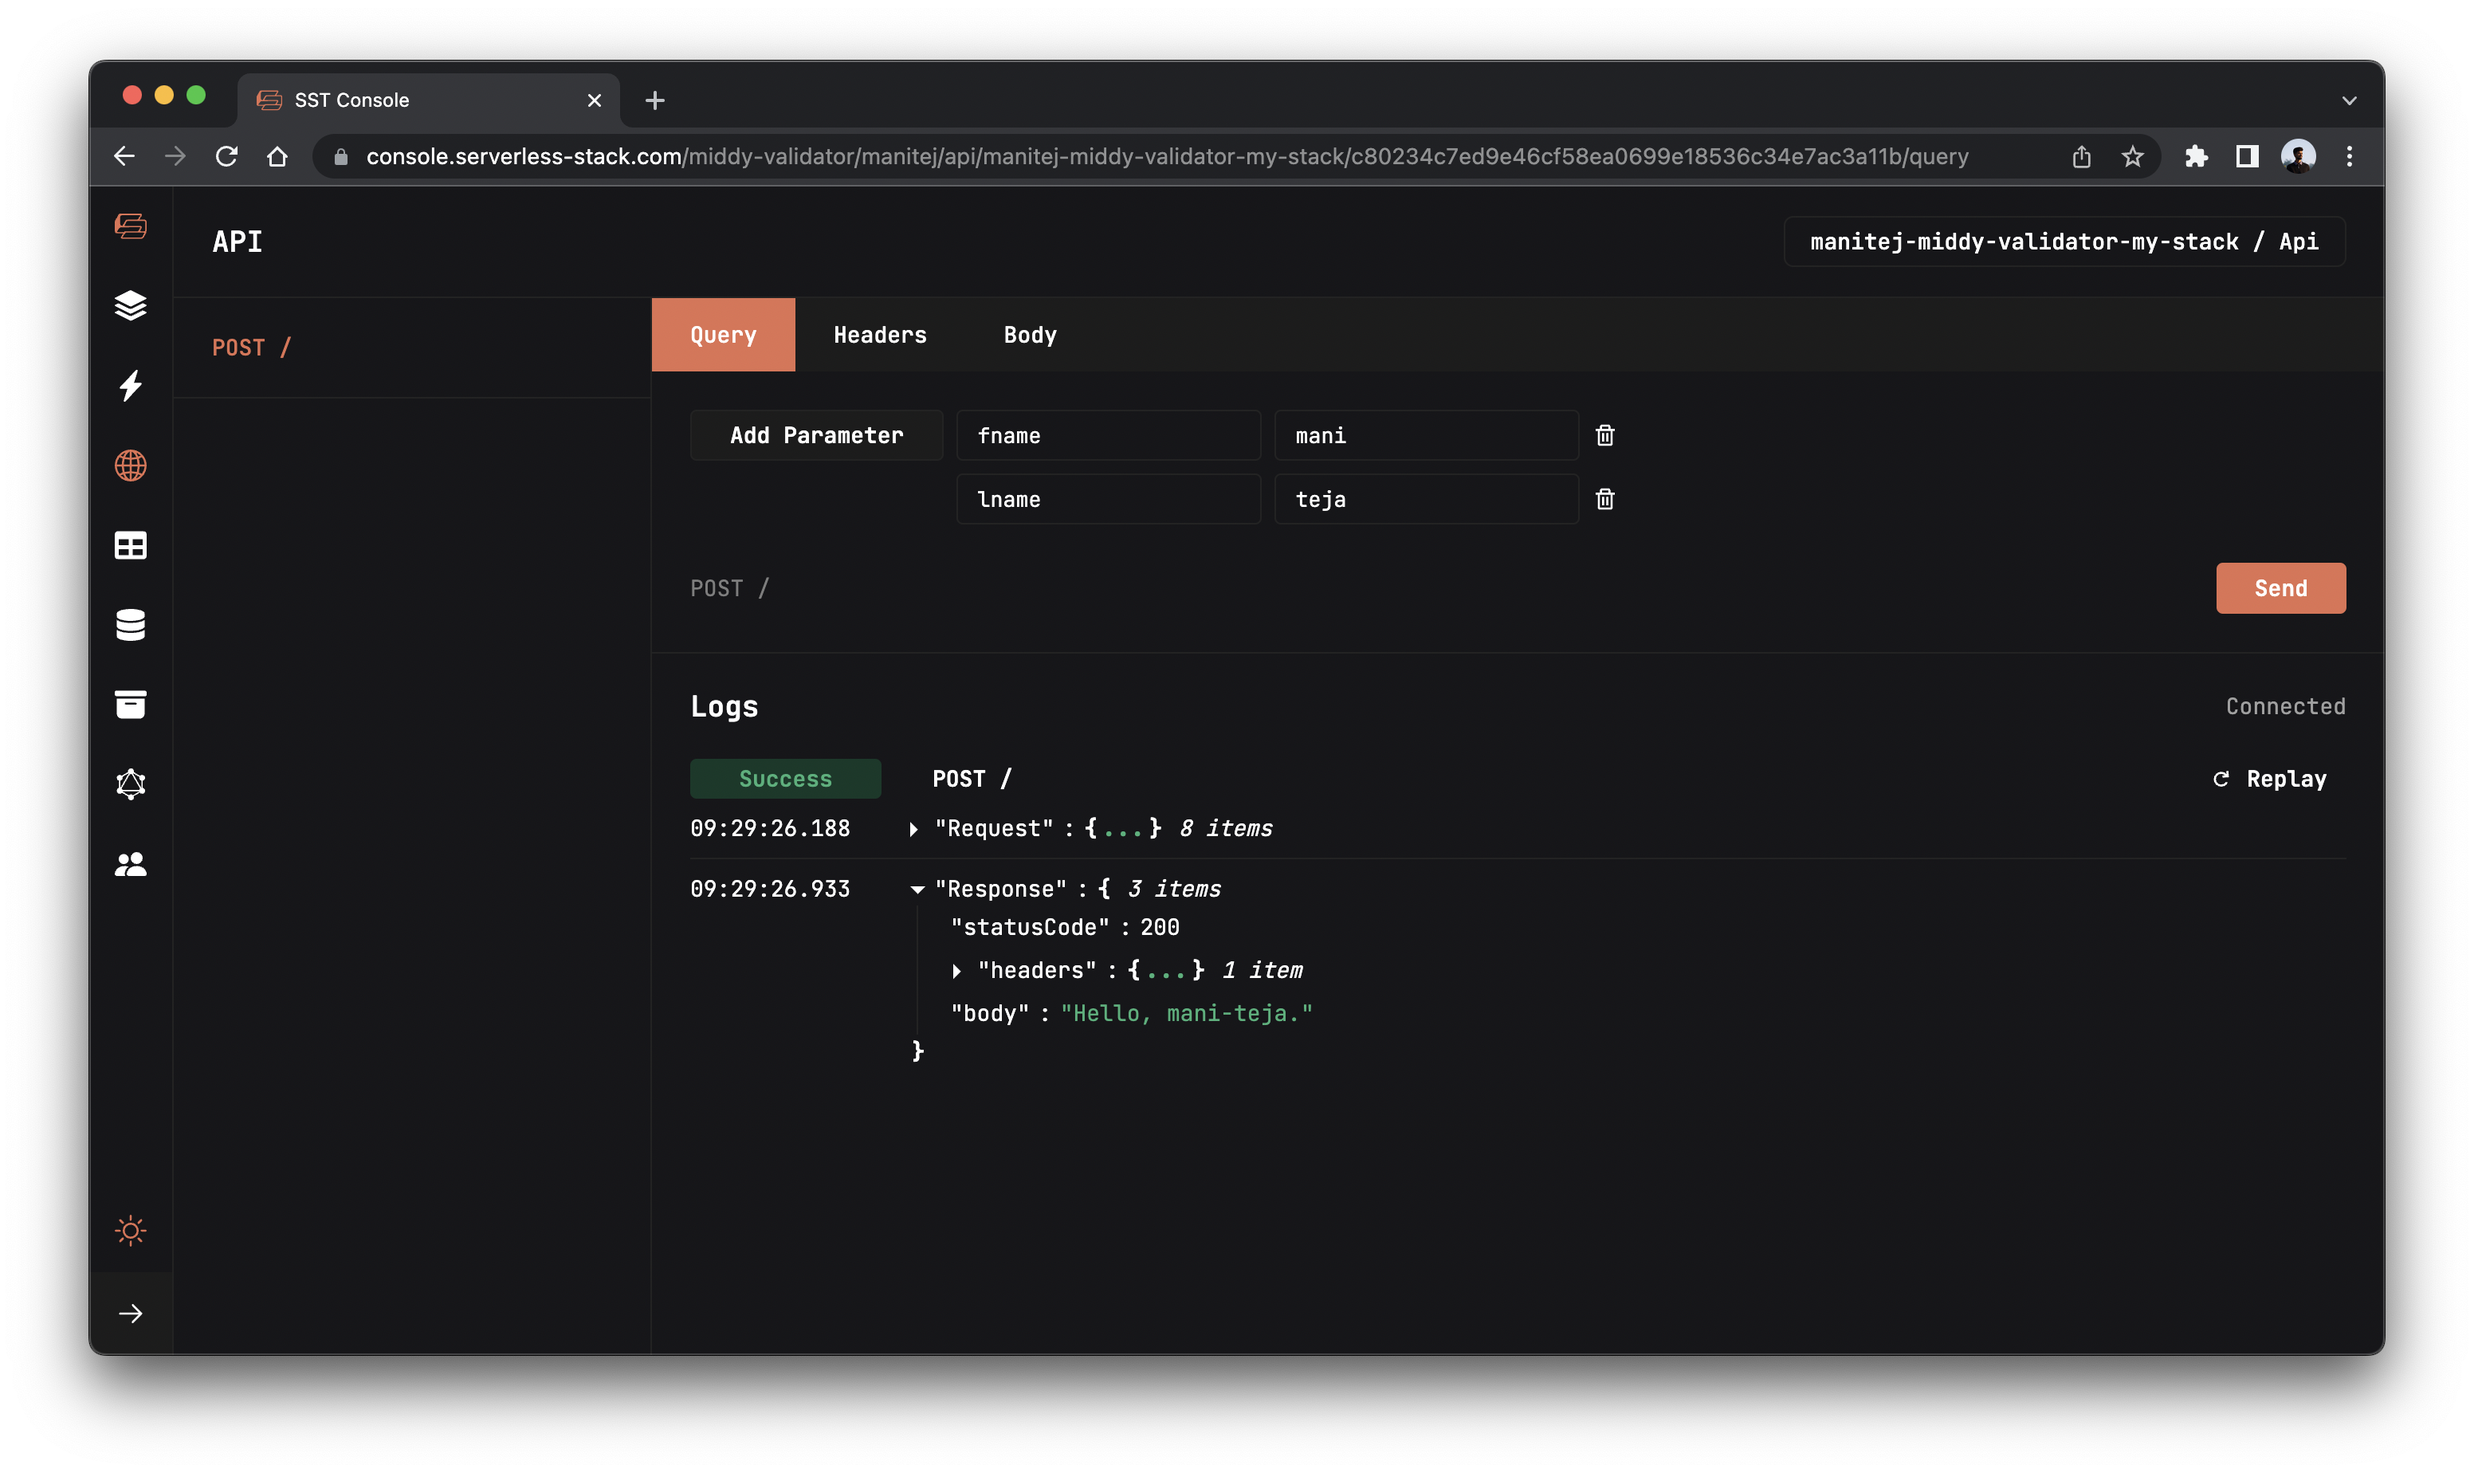
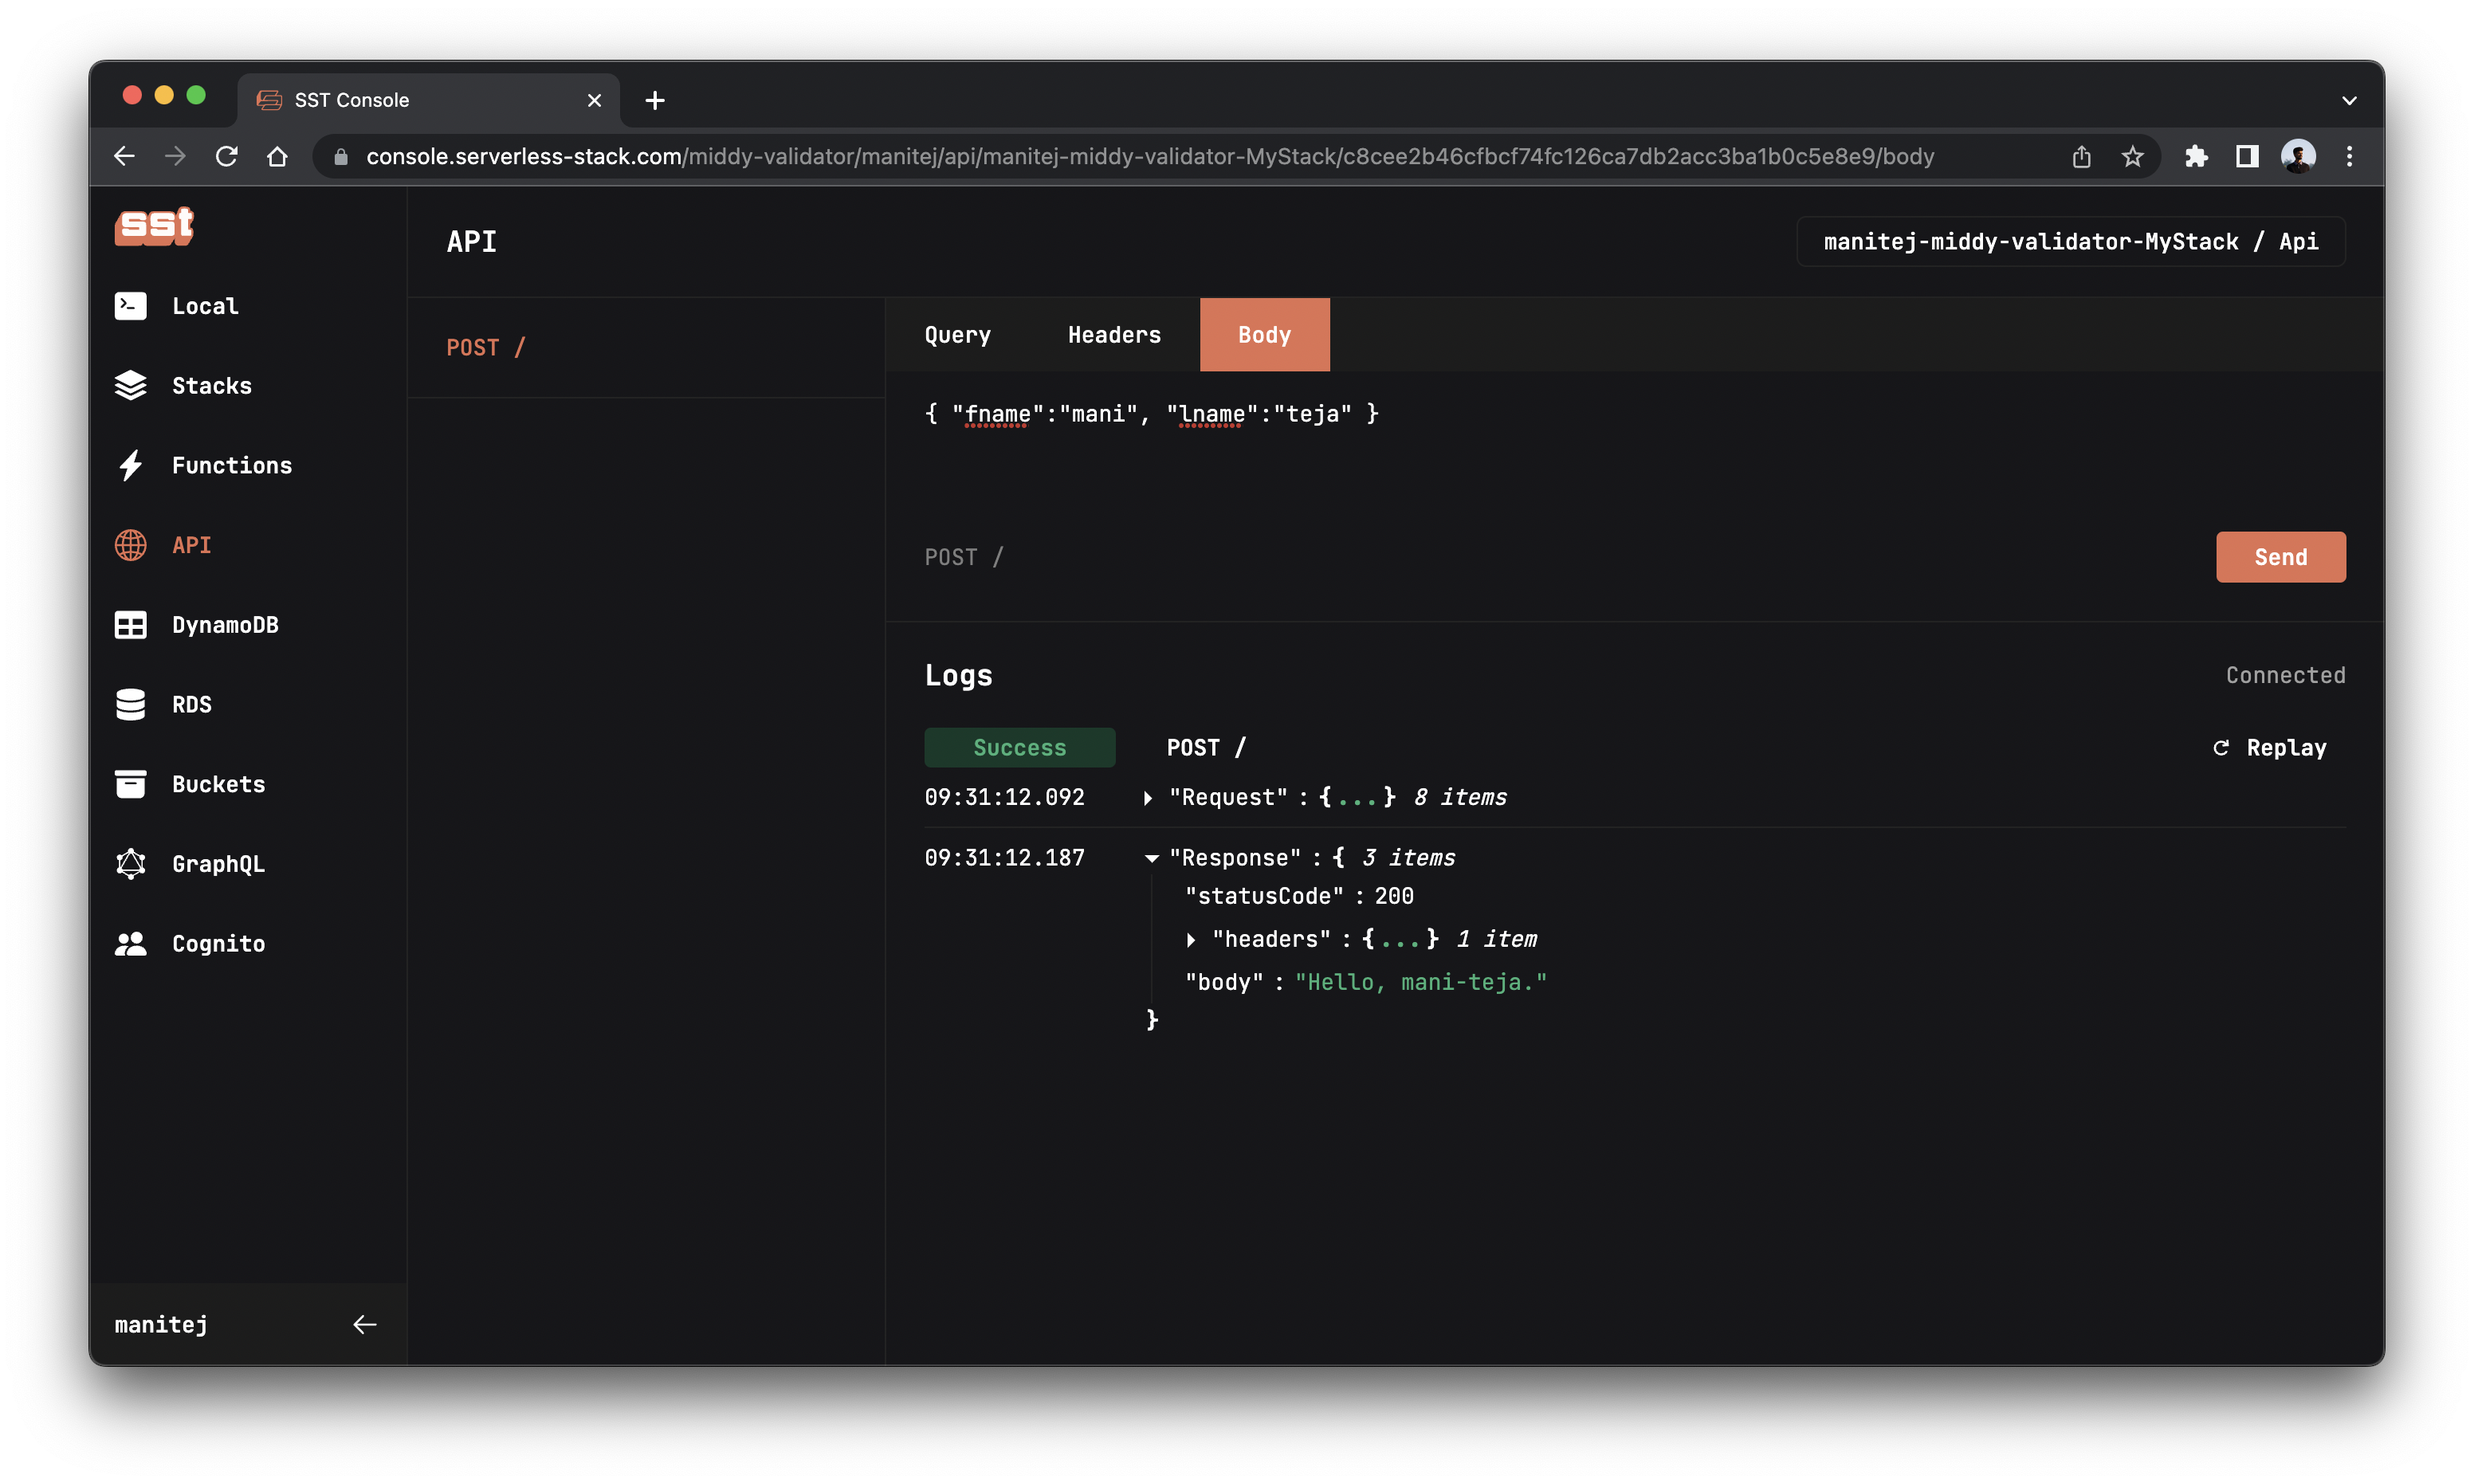
Update middy example (#669)

diff --git a/_examples/how-to-use-middy-to-validate-your-serverless-api-requests.md b/_examples/how-to-use-middy-to-validate-your-serverless-api-requests.md
@@ -139,13 +139,24 @@ The `ApiEndpoint` is the API we just created.
 
 Let's test our endpoint using the integrated [SST Console](https://console.serverless-stack.com). The SST Console is a web based dashboard to manage your SST apps [Learn more about it in our docs]({{ site.docs_url }}/console).
 
-Go to the **API** explorer and click on the `POST /` route. In the **Query** tab, enter **fname** and **lname** values as **mani** and **teja** respectively and click **Send** to send a POST request.
+Go to the **API** explorer and click on the `POST /` route. In the **Headers** tab set the content-type as **JSON** `Content-type: application/json`.
+
+![Console with headers](/assets/examples/middy-validator/console-with-header.png)
+
+In the **Body** tab, enter the below JSON and click **Send** to send a POST request.
+
+```json
+{
+  "fname": "mani",
+  "lname": "teja"
+}
+```
 
 ![Request with correct schema](/assets/examples/middy-validator/request-with-correct-schema.png)
 
 As you can see the endpoint is working as expected. We sent `mani` and `teja` as our `fname` and `lname` respectively and got `Hello, mani-teja` as the response.
 
-Now let's remove `lname` from the query parameters and see what happens.
+Now let's remove `lname` from the body and see what happens.
 
 ![Request with incorrect schema](/assets/examples/middy-validator/request-with-incorrect-schema.png)
 
@@ -296,7 +307,7 @@ We added a new `outputSchema` and added it to the Middy validator.
 
 Let's test our API again with correct schema and Middy validator.
 
-Add **lname** parameter again in the **Query** tab and click **Send**.
+Add **lname** parameter again in the **Body** tab and click **Send**.
 
 ![Request with correct schema](/assets/examples/middy-validator/request-with-correct-schema.png)
 
